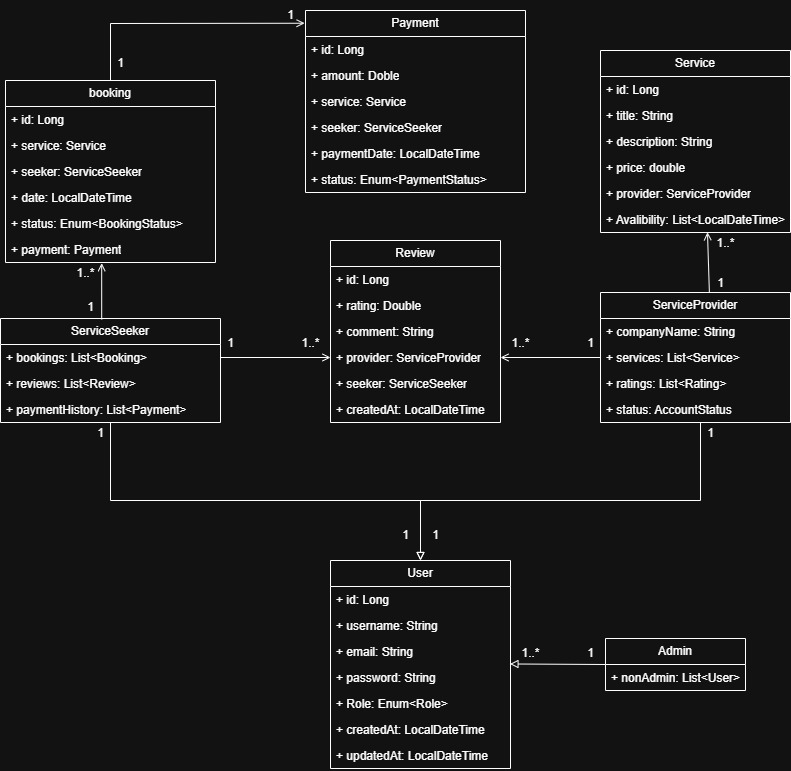
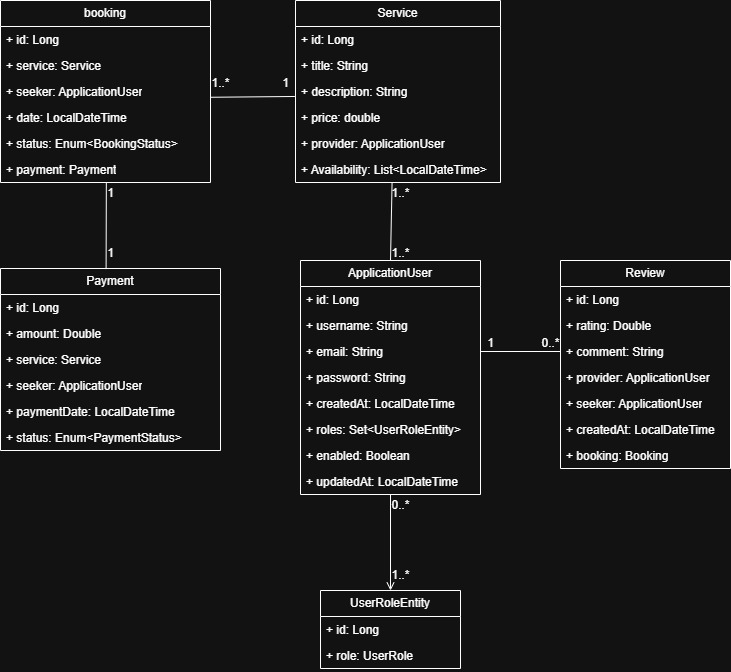
updated the image for the diagram to reflect the new schema, and changed the readme file

diff --git a/README.md b/README.md
@@ -116,3 +116,13 @@ This will spin up a temporary database for test execution. However, an active da
 ### **Class Diagram**
 
 ![Class Diagram](diagrams/workbridge.jpg)
+
+**Future Updates:**
+- **Availability Entity**: A new entity will be added to track the availability of service providers for their services.
+- **Category Entity**: A new category structure will be added to classify services based on type (e.g., graphic design, plumbing, etc.).
+
+These changes will help streamline filtering and searching for services based on both availability and category.
+
+---
+
+Let me know if you need further updates!
